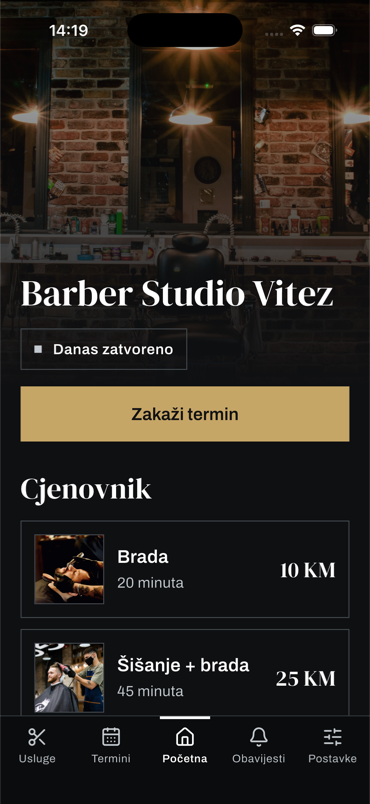
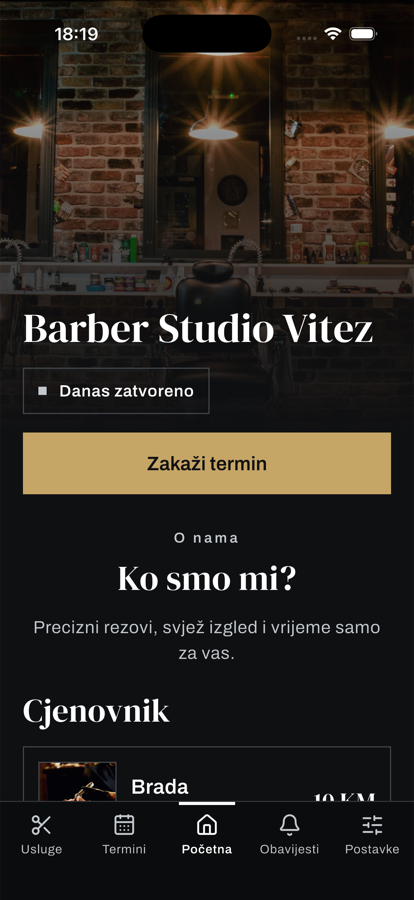
docs(tasks): task 19 — sta je dokazano i sta blokira telefon
Zaostalo iza PR-a #33: commitovano na granu nakon sto je PR vec bio
mergeovan, pa nikad nije stiglo na main.

Snimci osvjezeni na stvarno stanje: prica u vrhu, kontakt kao ikone bez
tabele. Stari snimci su prikazivali raspored koji vise ne postoji.

Zapisano zasto je raspored promijenjen, da se ne otvara ponovo, i sta
tacno fali za instalaciju na pravi telefon: Xcode nema prijavljen Apple
ID, pa ne izdaje provisioning profil za `ba.nasadomena.barberstudiovitez`
iako certifikat stoji u keychainu.

`DEVELOPMENT_TEAM` i ATS izuzetak su za taj pokusaj napravljeni
privremeno i vraceni. Nijedno ne pripada repou: prvo je licni Apple
nalog, drugo bi uslo i u store build.

Original je mijenjao i `tasks/CURRENT.md`; taj dio je izostavljen jer je
CURRENT.md derivat i vec je presao na task 17. Isti nalaz stoji trajno u
`19-o-nama-i-usluge.md`, pa se nista ne gubi.

diff --git a/tasks/sprint-2/19-o-nama-i-usluge.md b/tasks/sprint-2/19-o-nama-i-usluge.md
@@ -100,11 +100,57 @@ app se builda, diže i čita pravi katalog — `docs/screenshots/task-19-ios-sim
 iste dvije fotografije jedna ispod druge. Obje sekcije su same za sebe ispravne i obje su imale
 zelen test — vidi se tek kad stoje na istom ekranu.
 
+### Raspored i kontakt nakon pregleda na uređaju
+
+Prvi prolaz je sve sekcije „O nama" stavio na dno, a kontakt u uokvirenu tabelu labela→vrijednost,
+kako ga `02-o-nama.png` i crta. Pregled na simulatoru je oborio oboje:
+
+- **Priča je otišla iznad cjenovnika.** Odgovara na pitanje „gdje sam ja to došao", koje ima samo
+  onaj ko app otvara prvi put; ispod cjenovnika bi je pročitao tek onaj ko je već odlučio. Radno
+  vrijeme i kontakt su ostali na dnu — to su podaci po koje se vraćaš kad si već odlučio da ideš.
+- **Kontakt je izašao iz tabele i dobio ikone.** Tabela radi na papiru, gdje je kontakt pet redova
+  sa labelama iste dužine. U aplikaciji je labela suvišna: riječ „Adresa" pored „Stjepana Radića 12"
+  ne kaže ništa što se već ne vidi, a jede pola širine reda. **Labela nije nestala nego je otišla u
+  `Semantics`** — ikona čitaču ekrana ne znači ništa, pa red i dalje bude pročitan kao
+  „Adresa: Stjepana Radića 12", i test to mjeri (`bySemanticsLabel`).
+
+Lucide nema brand ikone (izbačene zbog licence), pa Instagram nosi `atSign` — što je tačno ono što
+u vrijednosti i piše — a Facebook `globe`.
+
+### Instalacija na pravi telefon — 🟡 blokirano na Apple nalogu
+
+Pokušana je instalacija na `Hamza's iPhone` (iPhone 14 Pro Max, iOS 26.6.1), release build flavora
+`barberstudiovitez` protiv lokalnog Supabasea preko LAN-a (`http://192.168.0.14:54321`, provjereno
+`200` sa `anon` ključem). **Build pada na potpisivanju:**
+
+```
+Automatically signing iOS for device deployment using specified development team: J96U28624S
+Error (Xcode): No Account for Team "J96U28624S". Add a new account in Accounts settings
+Error (Xcode): No profiles for 'ba.nasadomena.barberstudiovitez' were found
+Error: could not code sign the application.
+```
+
+Potpisni certifikat **postoji** u keychainu (`Apple Development: htuco04@icloud.com (J96U28624S)`),
+ali Xcode nema prijavljen Apple ID, pa ne može izdati provisioning profil za taj bundle ID.
+
+**Šta treba unijeti, i gdje:** Xcode → Settings → Accounts → „+" → Apple ID (`htuco04@icloud.com`).
+Nakon toga `Runner` → Signing & Capabilities → Team, pa build prolazi.
+
+**Dvije stvari koje repo namjerno nema, a build za uređaj traži** — obje su za tu priliku
+napravljene privremeno i **vraćene**, nijedna nije commitovana:
+
+- `DEVELOPMENT_TEAM` — vezan je za lični Apple nalog, pa ne pripada repou. Kad se uvede pravi build
+  za uređaje, ide kroz CI secret ili lokalni gitignore-ovan xcconfig, ne u `Runner.xcodeproj`.
+- **ATS izuzetak** (`NSAllowsLocalNetworking`) — lokalni Supabase ide čistim HTTP-om, a iOS to
+  podrazumijevano blokira. U `Info.plist` ne smije ući trajno: to je izuzetak za razvoj, a
+  `Info.plist` ide i u store build.
+
 ### Ostalo za sljedećeg
 
 - **`services` nema kolonu za ručni redoslijed.** Uzlazno po kategoriji pa imenu je predvidivo, ne
   dobro: na `/services` je podnošljivo (vidi se cijela lista), na Početnoj nije, jer pokazuje tri.
   Ako se rješava, to je `sort_order` migracija i vlastiti task.
+- **Instalacija na pravi telefon** — v. blok iznad; čeka prijavu Apple ID-a u Xcode.
 - **Tapovi na kontakt redove nisu odigrani.** `tel:`, mape i Instagram traže pravi uređaj;
   `launchUrl` je pozvan iz `_otvori`, ali nijednom nije otvorio aplikaciju. Greška se guta
   namjerno — v. doc komentar.

diff --git a/tasks/sprint-2/README.md b/tasks/sprint-2/README.md
@@ -179,6 +179,12 @@ Sitno, ali ne smije se izgubiti:
 > **Zamka koju je našao browser, a testovi nisu mogli:** foto par i Galerija su na Početnoj crtali
 > iste dvije fotografije jedna ispod druge — obje sekcije ispravne, obje sa zelenim testom, vidi se
 > tek kad stoje na istom ekranu. Par je ostao samo na `/about`, koji mreže nema.
+> Nakon pregleda na simulatoru priča je otišla **iznad cjenovnika** (odgovara na „gdje sam došao",
+> pitanje koje ima samo prvi otvaralac), a kontakt je izašao iz uokvirene tabele i dobio **ikone**:
+> labela „Adresa" pored „Stjepana Radića 12" ne kaže ništa što se već ne vidi, a jede pola širine
+> reda. Labela nije nestala nego je otišla u `Semantics`, i test to mjeri.
 > **Ostaje otvoreno, ali ne blokira:** `services` nema kolonu za ručni redoslijed (`sort_order`
-> migracija, vlastiti task), a tapovi na `tel:`, mape i Instagram traže pravi uređaj.
+> migracija, vlastiti task), tapovi na `tel:`, mape i Instagram traže pravi uređaj, a **instalacija
+> na telefon je blokirana na Apple nalogu** — certifikat postoji u keychainu, ali Xcode nema
+> prijavljen Apple ID pa ne izdaje provisioning profil.
 > Detalji: [19-o-nama-i-usluge.md](19-o-nama-i-usluge.md#status-2026-09-13--✅-zatvoren).
